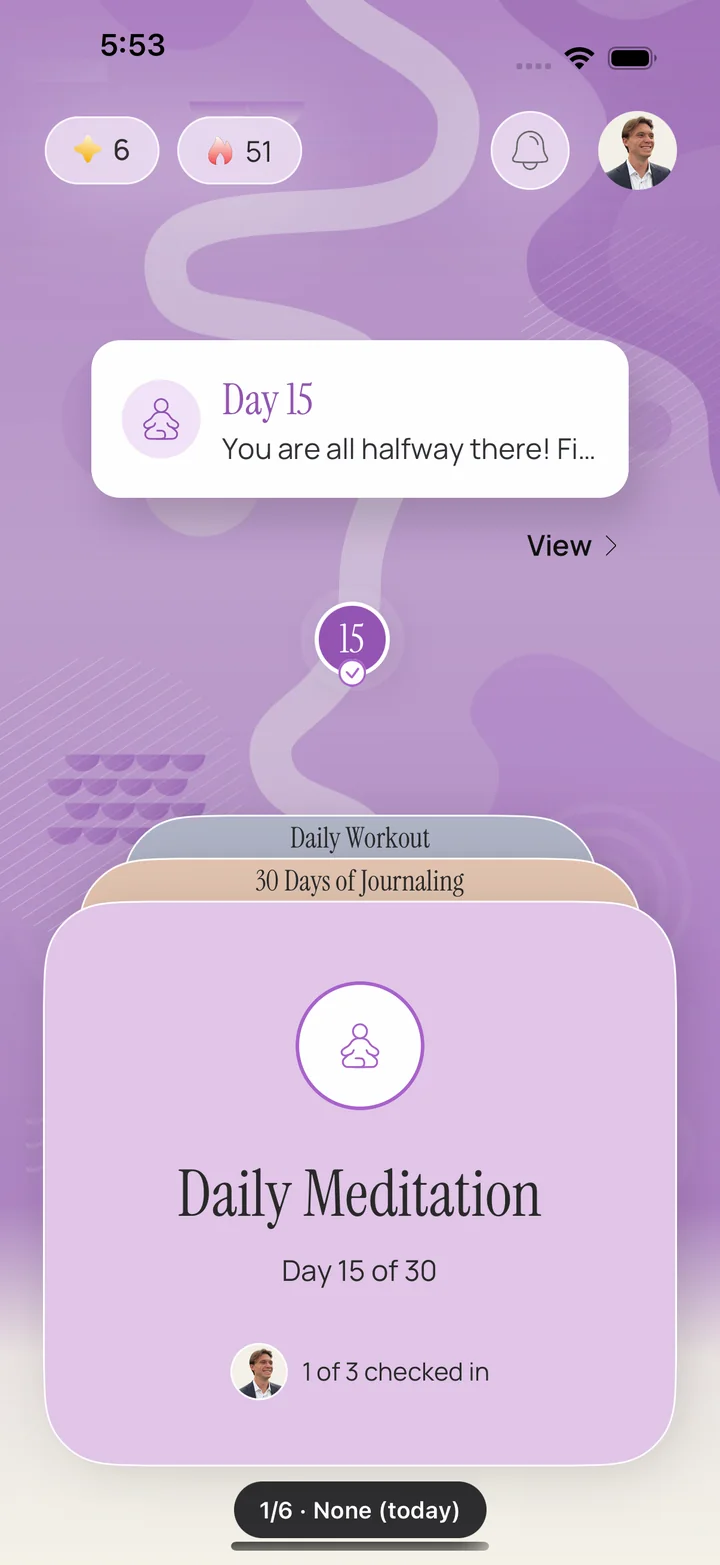
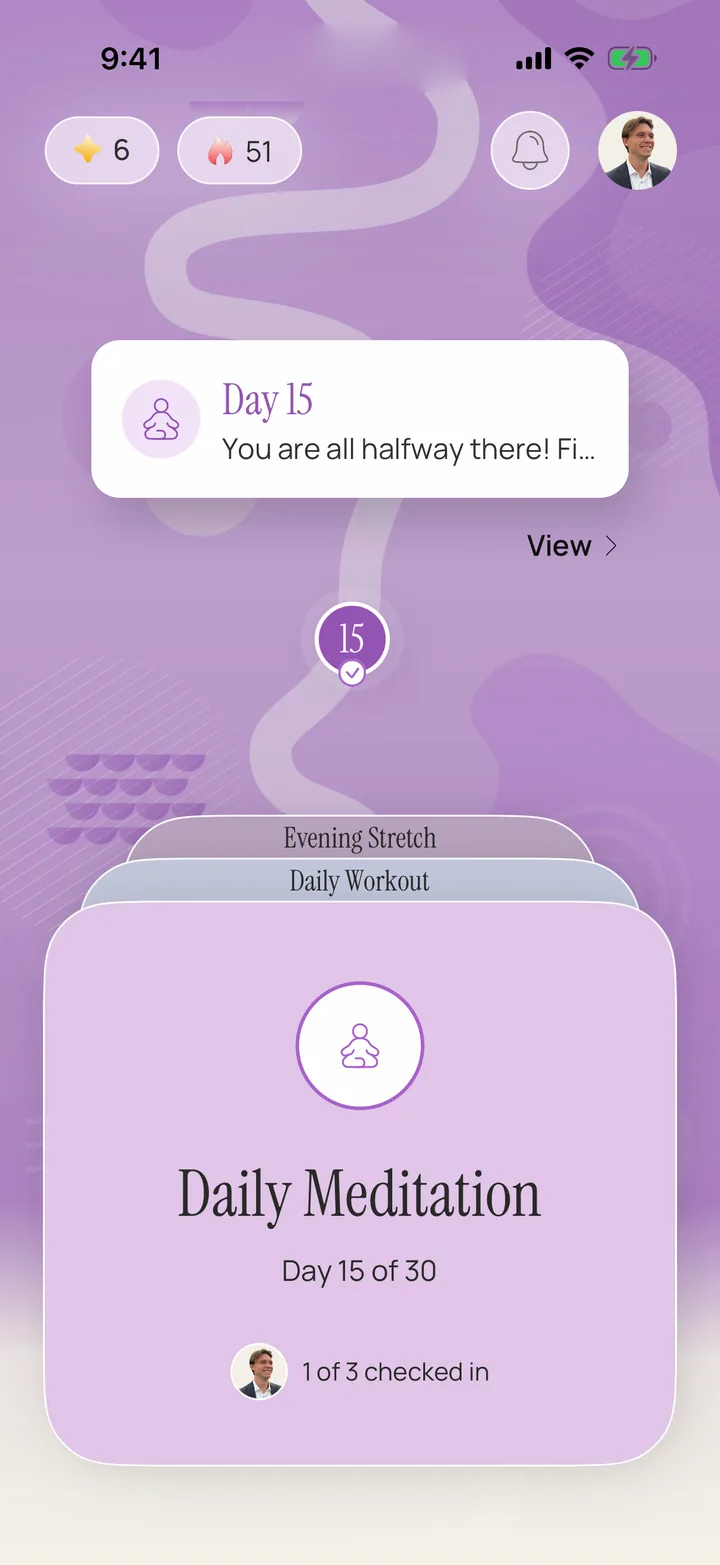
feat(hero): real app captures for the five phone screens with 480w/720w srcset; deck arc slowed to 1.1s ease-in-out, drag settle 640ms

diff --git a/index.html b/index.html
@@ -38,7 +38,7 @@
   <meta name="theme-color" content="#F3F1E7">
   <link rel="preload" href="/assets/fonts/woff2/InstrumentSerif-400.woff2" as="font" type="font/woff2" crossorigin>
   <link rel="stylesheet" href="/css/fonts.css">
-  <link rel="preload" as="image" href="/assets/img/screen-mindful.webp" type="image/webp" fetchpriority="high">
+  <link rel="preload" as="image" imagesrcset="/assets/img/screen-mindful-480.webp 480w, /assets/img/screen-mindful.webp 720w" imagesizes="(max-width: 600px) min(41vw, 162px), 232px" type="image/webp" fetchpriority="high">
   <link rel="preload" as="image" href="/assets/img/glyph-flat-mindfulness.svg">
   <link rel="preload" as="image" href="/assets/img/glyph-flat-recharge.svg">
   <link rel="preload" as="image" href="/assets/img/glyph-flat-creativity.svg">
@@ -46,8 +46,8 @@
   <link rel="preload" as="image" href="/assets/img/glyph-flat-social.svg">
 
   <link rel="stylesheet" href="/css/tokens.css?v=3">
-  <link rel="stylesheet" href="/css/landing.css?v=25">
-  <script src="/js/landing.js?v=23" defer></script>
+  <link rel="stylesheet" href="/css/landing.css?v=26">
+  <script src="/js/landing.js?v=24" defer></script>
 
   <script type="application/ld+json">
   {
@@ -152,24 +152,24 @@
         <figure class="phone">
           <div class="phone__screen">
               <picture>
-                <source srcset="/assets/img/screen-mindful.webp" type="image/webp">
-                <img src="/assets/img/screen-mindful.jpg" alt="Home in the Mindful family: a Daily Meditation roadmap" width="720" height="1565" loading="eager" decoding="async" fetchpriority="high">
+                <source srcset="/assets/img/screen-mindful-480.webp 480w, /assets/img/screen-mindful.webp 720w" sizes="(max-width: 600px) min(41vw, 162px), 232px" type="image/webp">
+                <img src="/assets/img/screen-mindful.jpg" alt="Home in the Mindful family: a Daily Meditation roadmap, day 15 of 30" width="720" height="1565" loading="eager" decoding="async" fetchpriority="high">
               </picture>
               <picture>
-                <source srcset="/assets/img/screen-healthy.webp" type="image/webp">
-                <img fetchpriority="low" src="/assets/img/screen-healthy.jpg" alt="Home in the Healthy family: a Daily Workout roadmap" width="720" height="1565" loading="eager" decoding="async">
+                <source srcset="/assets/img/screen-healthy-480.webp 480w, /assets/img/screen-healthy.webp 720w" sizes="(max-width: 600px) min(41vw, 162px), 232px" type="image/webp">
+                <img fetchpriority="low" src="/assets/img/screen-healthy.jpg" alt="A Daily Workout roadmap in the Healthy family with a friend check-in" width="720" height="1565" loading="eager" decoding="async">
               </picture>
               <picture>
-                <source srcset="/assets/img/screen-creative.webp" type="image/webp">
-                <img fetchpriority="low" src="/assets/img/screen-creative.jpg" alt="Home in the Creative family: a 30 Days of Journaling roadmap" width="720" height="1565" loading="eager" decoding="async">
+                <source srcset="/assets/img/screen-creative-480.webp 480w, /assets/img/screen-creative.webp 720w" sizes="(max-width: 600px) min(41vw, 162px), 232px" type="image/webp">
+                <img fetchpriority="low" src="/assets/img/screen-creative.jpg" alt="Creative badges: the Gold Badge set, with Starting and Bronze badges unlocked" width="720" height="1565" loading="eager" decoding="async">
               </picture>
               <picture>
-                <source srcset="/assets/img/screen-productive.webp" type="image/webp">
-                <img fetchpriority="low" src="/assets/img/screen-productive.jpg" alt="Home in the Productive family: a Daily Reading roadmap" width="720" height="1565" loading="eager" decoding="async">
+                <source srcset="/assets/img/screen-productive-480.webp 480w, /assets/img/screen-productive.webp 720w" sizes="(max-width: 600px) min(41vw, 162px), 232px" type="image/webp">
+                <img fetchpriority="low" src="/assets/img/screen-productive.jpg" alt="Friends leaderboard ranked by points" width="720" height="1565" loading="eager" decoding="async">
               </picture>
               <picture>
-                <source srcset="/assets/img/screen-social.webp" type="image/webp">
-                <img fetchpriority="low" src="/assets/img/screen-social.jpg" alt="Home in the Social family: a Daily Kindness roadmap" width="720" height="1565" loading="eager" decoding="async">
+                <source srcset="/assets/img/screen-social-480.webp 480w, /assets/img/screen-social.webp 720w" sizes="(max-width: 600px) min(41vw, 162px), 232px" type="image/webp">
+                <img fetchpriority="low" src="/assets/img/screen-social.jpg" alt="A profile page: Sienna, 184 Sparks, 7 friends, 1,106 check-ins" width="720" height="1565" loading="eager" decoding="async">
               </picture>
           </div>
           <span class="phone__island"></span>

diff --git a/js/landing.js b/js/landing.js
@@ -264,7 +264,10 @@
     var WIDTH_STEP = 38, WIDTH_STEP_DECAY = -11, MIN_WIDTH_STEP = 8;
     var MAX_ROT = 8, ARC_UP = 56, LANE_PEAK_FRACTION = 0.85, SEAT_ZONE = 0.25, SCALE_DIP = 0.04;
     var DIM_BASE = 0.10, DIM_PER_RANK = 0.10, MAX_DIM = 0.30;
-    var DRAG_SPAN = 0.6, COMMIT = 0.3, FLICK_VX = 500, TRAVEL_MS = 560;
+    /* Arrow, tap and auto-advance travel: a slow, legible arc (the app's
+       "silk" preset stretched for the larger desktop card). A drag release
+       settles on its own shorter clock so the hand-off stays continuous. */
+    var DRAG_SPAN = 0.6, COMMIT = 0.3, FLICK_VX = 500, TRAVEL_MS = 1100, SETTLE_MS = 640;
     var AUTO_MS = 4200, AUTO_REST_MS = 9000;
 
     var P = 0, target = 0, cardW = 346;
@@ -335,17 +338,19 @@
     function measure() { cardW = stage.getBoundingClientRect().width || cardW; deckRoot.style.setProperty('--deck-w', cardW + 'px'); render(); }
 
     function easeOut(t) { return 1 - Math.pow(1 - t, 3); }
-    function animateTo(to, ms) {
+    /* Slow in, slow out: the card lifts off gently and seats gently. */
+    function easeInOut(t) { return t < 0.5 ? 4 * t * t * t : 1 - Math.pow(-2 * t + 2, 3) / 2; }
+    function animateTo(to, ms, easing) {
       if (anim) window.cancelAnimationFrame(anim);
       target = to;
       if (reducedMotion) { P = to; render(); return; }
-      var from = P, start = null;
-      var dur = Math.min(TRAVEL_MS * Math.max(1, Math.abs(to - from)), 1400);
+      var from = P, start = null, ease = easing || easeInOut;
+      var dur = Math.min(TRAVEL_MS * Math.max(1, Math.abs(to - from)), 2200);
       if (ms) dur = ms;
       function step(now) {
         if (start === null) start = now;
         var t = Math.min(1, (now - start) / dur);
-        P = lerp(from, to, easeOut(t));
+        P = lerp(from, to, ease(t));
         render();
         if (t < 1) anim = window.requestAnimationFrame(step); else { anim = null; P = to; render(); }
       }
@@ -353,8 +358,8 @@
     }
     function settle(from, to, flick) {
       var remaining = Math.abs(to - from);
-      var dur = Math.min(TRAVEL_MS, Math.max(180, TRAVEL_MS * remaining));
-      animateTo(to, flick ? Math.max(150, dur * 0.7) : dur);
+      var dur = Math.min(SETTLE_MS, Math.max(180, SETTLE_MS * remaining));
+      animateTo(to, flick ? Math.max(150, dur * 0.7) : dur, easeOut);
     }
     /* Forward = the front card lifts off along the arc and lands at the back; P falls by one. */
     function advance(n) { lastUser = Date.now(); animateTo(Math.round(target) - n); }
@@ -391,7 +396,7 @@
       if (!decided) {
         /* Tap without a drag: if nothing is animating and the deck is off a
            whole position, glide it to its target. */
-        if (!anim && Math.abs(P - Math.round(P)) > 1e-3) animateTo(Math.round(target));
+        if (!anim && Math.abs(P - Math.round(P)) > 1e-3) animateTo(Math.round(target), SETTLE_MS, easeOut);
         return;
       }
       var fraction = P - base, flick = Math.abs(vx) > FLICK_VX;
